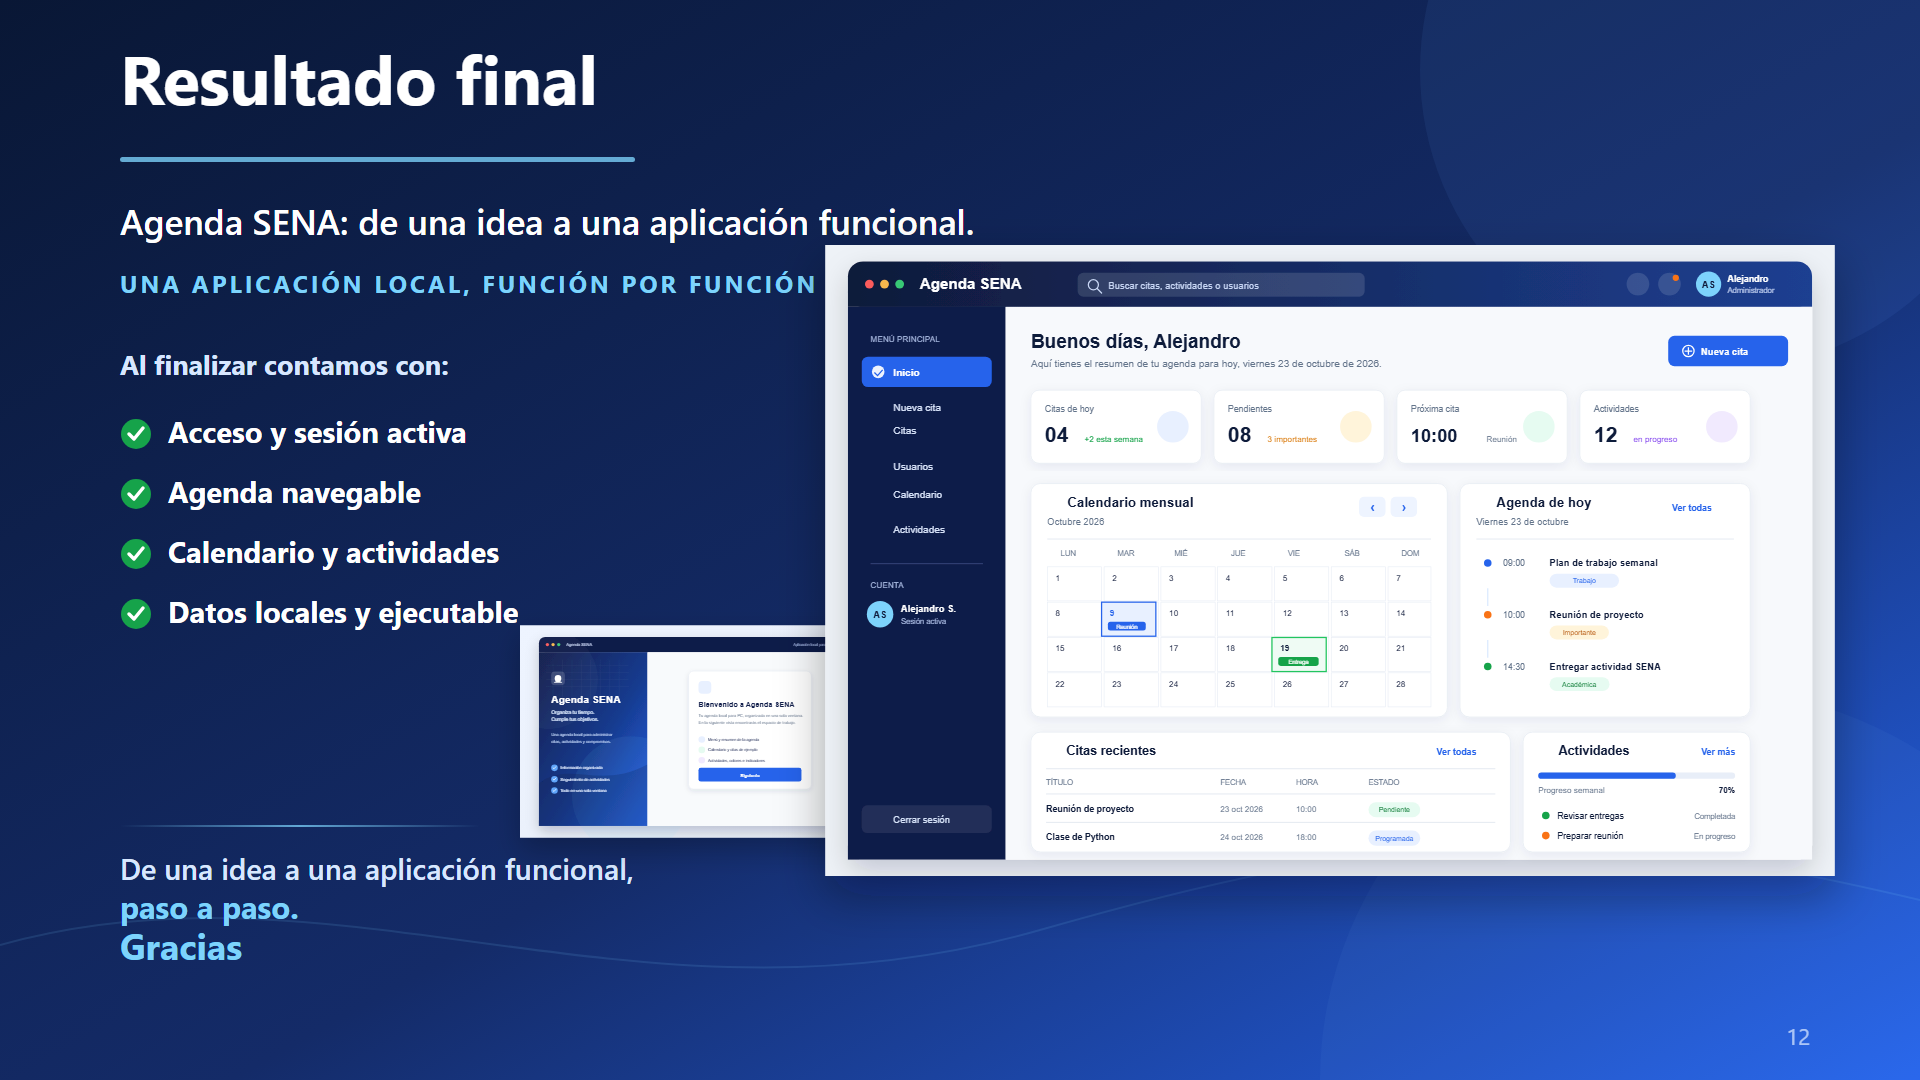
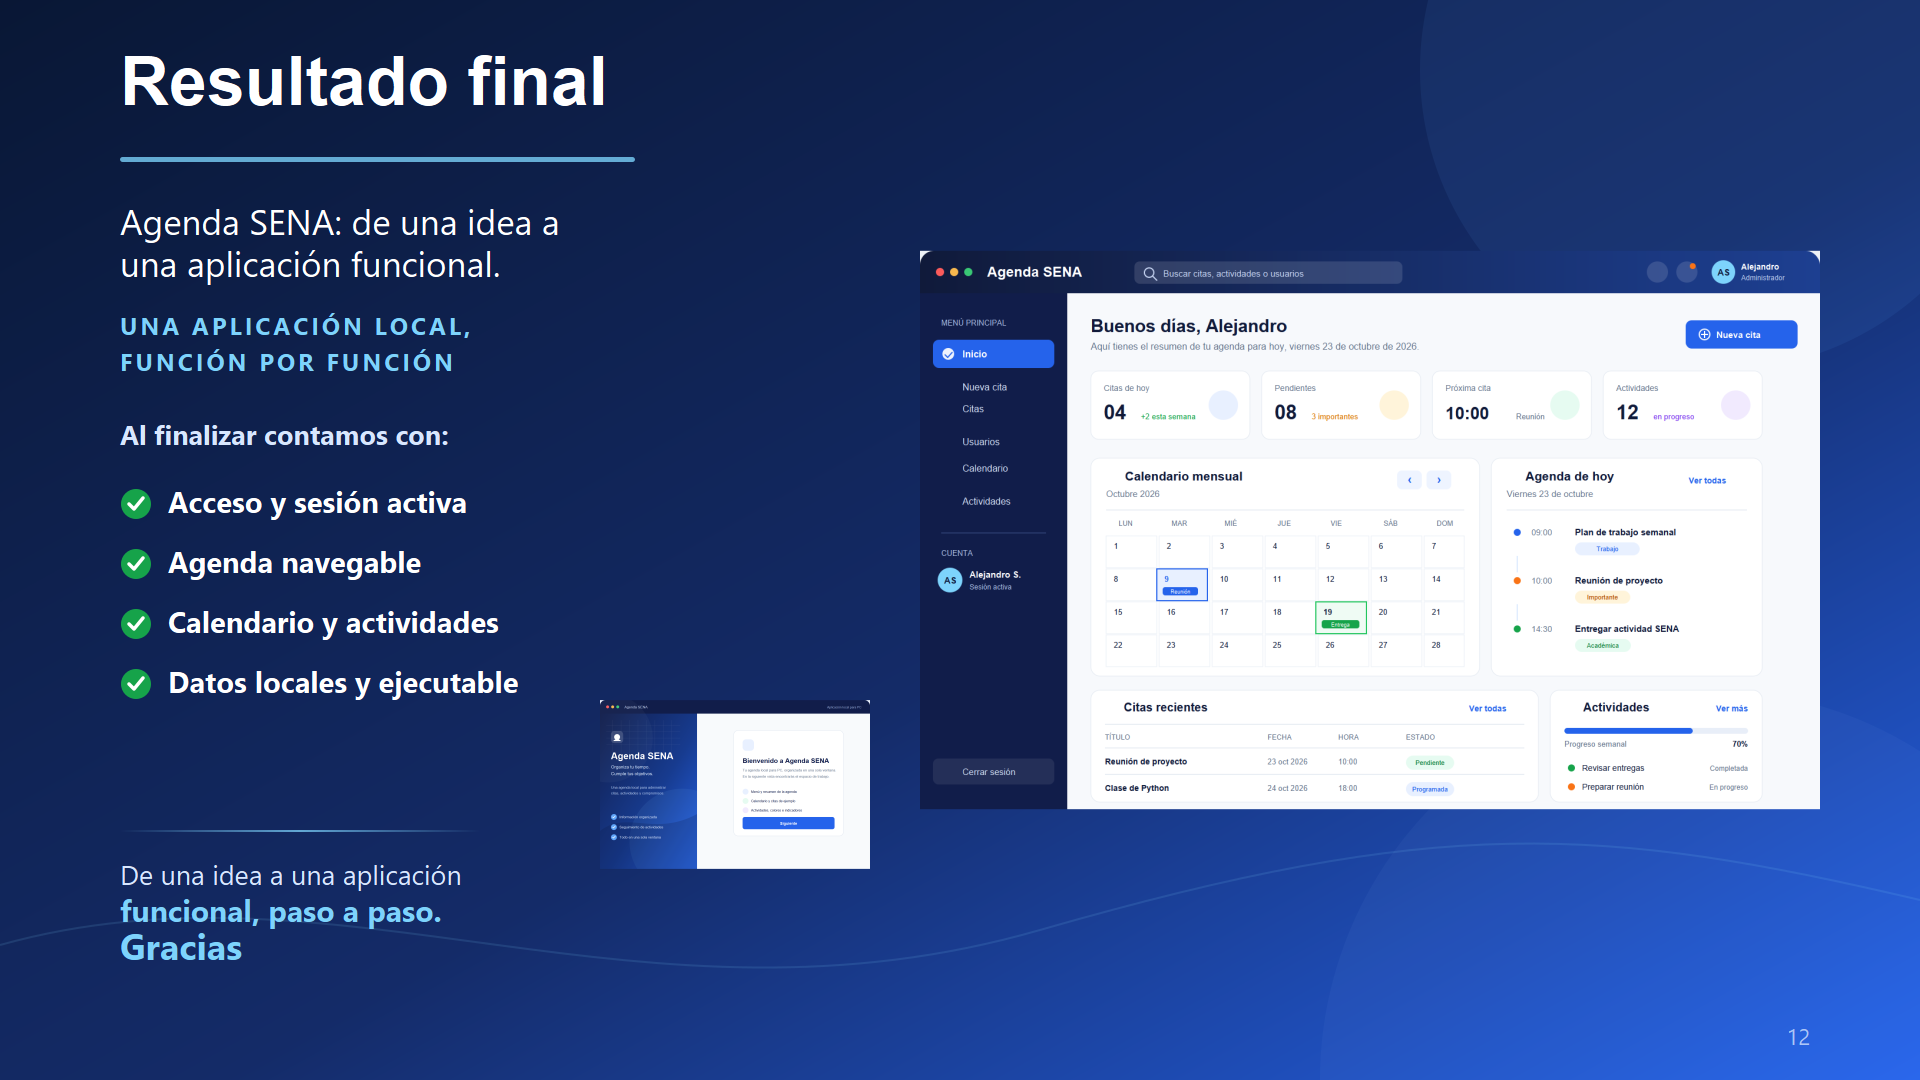
Limpiar composicion de la diapositiva final

diff --git a/docs/pt/presentation.md b/docs/pt/presentation.md
@@ -777,19 +777,16 @@ docs/pt/img/11_delivery.png
 
 **Resultado final**
 
-**Agenda SENA es una aplicación local de escritorio que se construye función
-por función.**
+**Agenda SENA: de una idea a una aplicación funcional.**
+
+**UNA APLICACIÓN LOCAL, FUNCIÓN POR FUNCIÓN**
 
 **Al finalizar contamos con:**
 
-- Una ventana de acceso.
-- Una agenda navegable.
-- Calendario mensual.
-- Usuarios y sesión activa.
-- Citas y actividades.
-- Categorías, colores y estados.
-- Datos locales y pruebas.
-- Un ejecutable para Windows.
+- Acceso y sesión activa.
+- Agenda navegable.
+- Calendario y actividades.
+- Datos locales y ejecutable.
 
 **De una idea a una aplicación funcional, paso a paso.**
 
@@ -798,11 +795,14 @@ por función.**
 ## Distribución
 
 - Usar una composición final tipo portada de producto.
-- Colocar el título y una lista breve de resultados en el tercio izquierdo.
+- Mantener el título, el subtítulo y la lista de resultados dentro de una
+  columna izquierda independiente, con margen amplio respecto a las capturas.
 - Hacer que la ventana terminada de Agenda SENA ocupe el tercio derecho y el
   centro de la diapositiva.
-- Colocar el login detrás de la agenda, más pequeño y parcialmente desplazado,
-  para mostrar el recorrido de entrada sin competir con el resultado final.
+- Colocar el login detrás de la agenda, más pequeño y separado de la frase de
+  cierre.
+- Usar recortes limpios de las ventanas, sin el lienzo blanco exterior de los
+  SVG de referencia.
 - Ubicar `Gracias` abajo, con mucho espacio alrededor.
 
 ## Imagen o representación visual
@@ -810,13 +810,11 @@ por función.**
 Crear una composición final con las dos referencias del producto conectadas:
 
 - Una ventana de login completa, pequeña y nítida, en la parte posterior
-  izquierda.
+  izquierda, usando `login-window-clean.png`.
 - Una ventana grande de agenda en primer plano, mostrando navegación,
-  calendario y agenda de hoy.
-- Una conexión visual sencilla entre ambas, como una flecha o un recorrido de
-  luz, sin texto adicional.
-- Como máximo tres elementos flotantes: calendario, usuario y check. Deben ser
-  grandes, separados y funcionales, no adornos diminutos.
+  calendario y agenda de hoy, usando `agenda-window-clean.png`.
+- No agregar un cuadro blanco contenedor ni una flecha que compita con el
+  resultado; las dos ventanas deben verse como capturas limpias del producto.
 
 La agenda debe ser el elemento visual dominante. La composición debe transmitir
 que todos los stages terminaron reunidos en una sola aplicación navegable.
